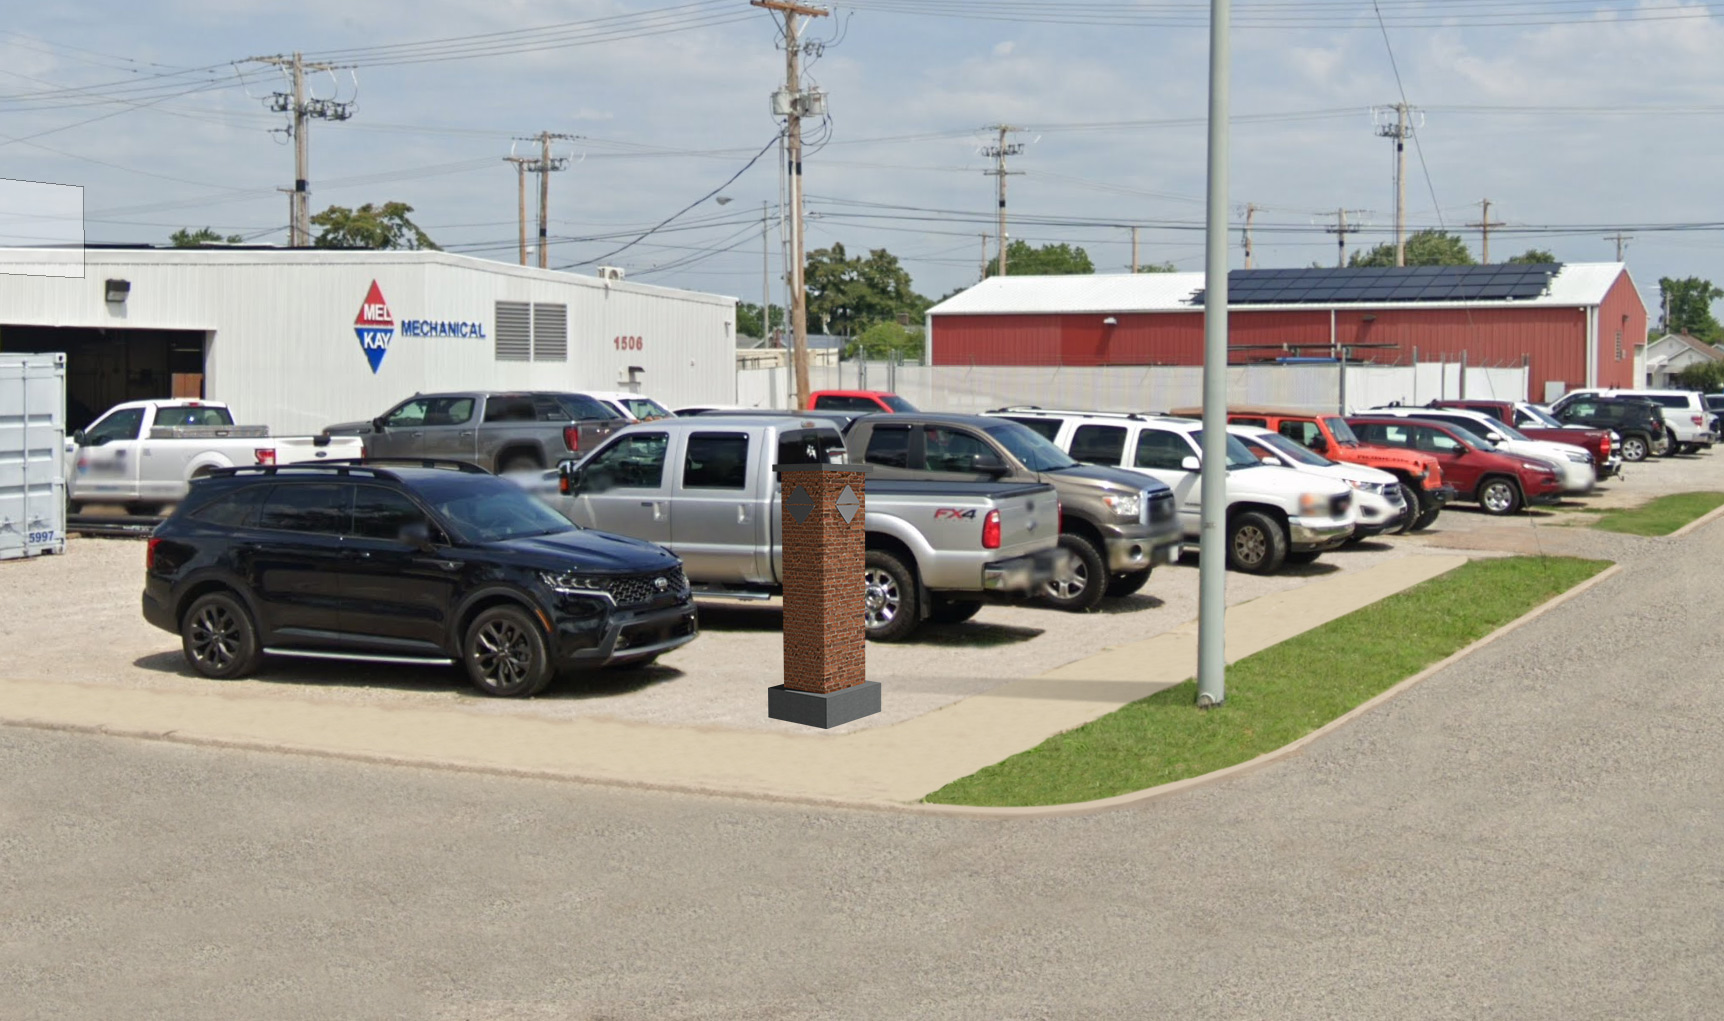
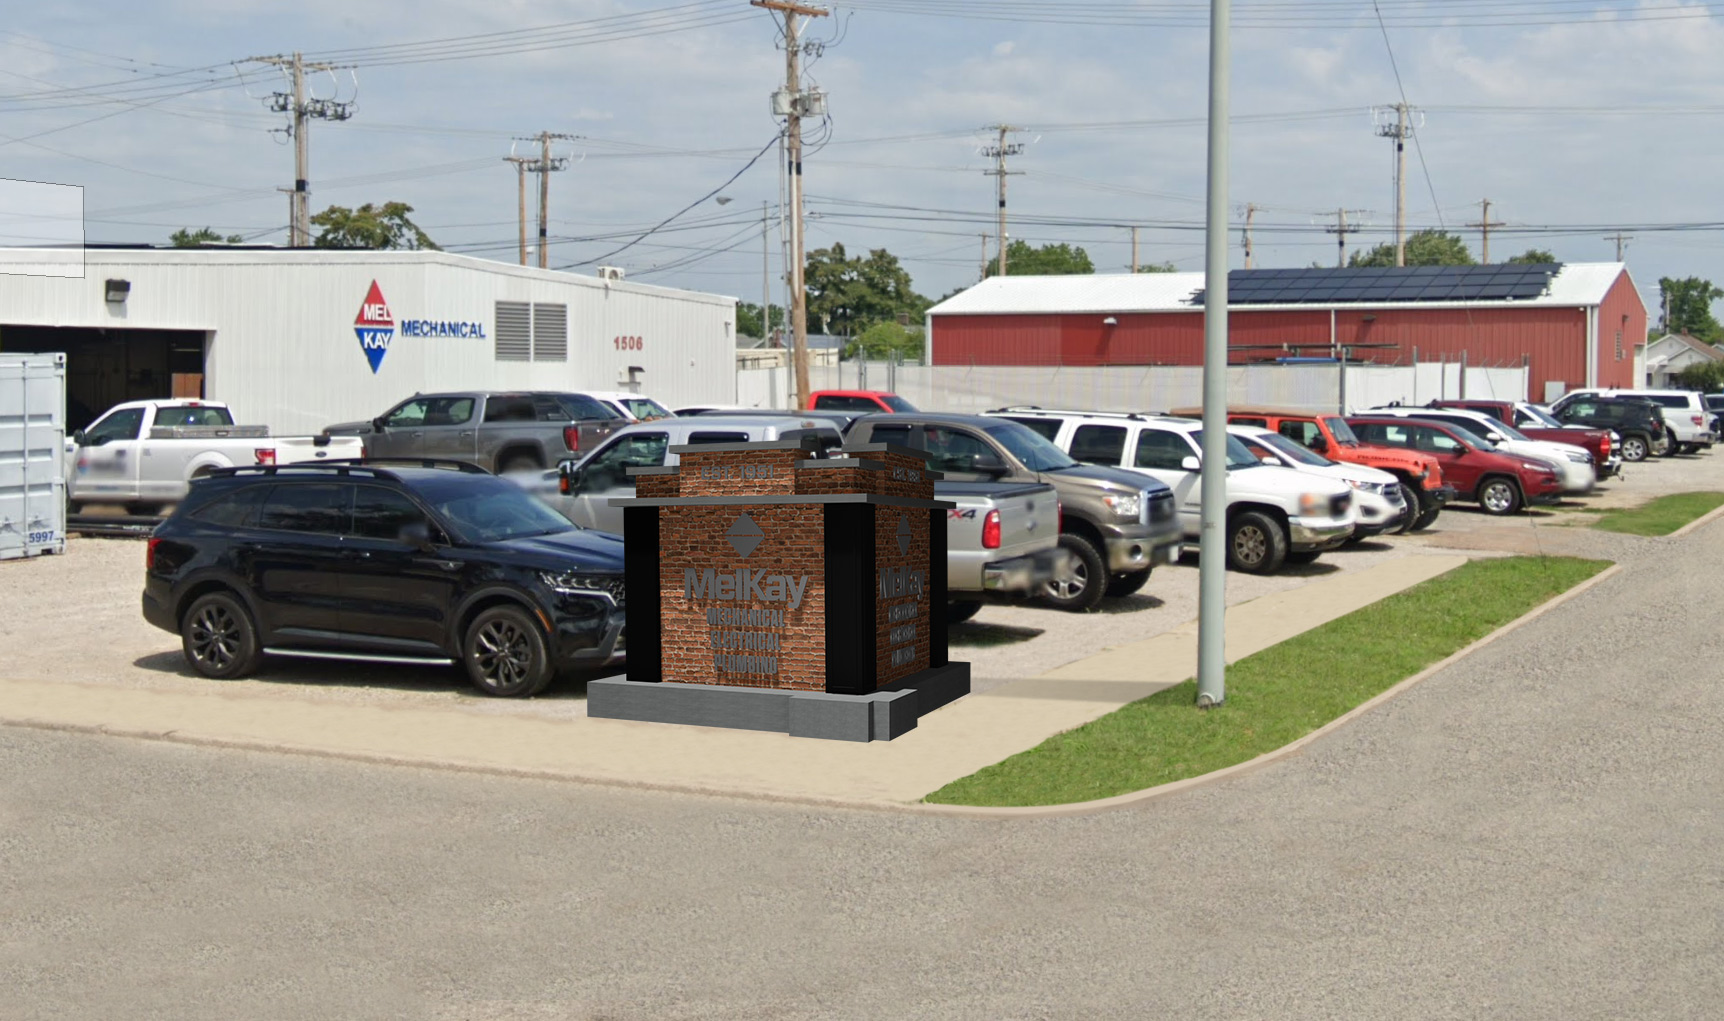
new corner signage

Changed region(s): [[0.3382, 0.4251, 0.5841, 0.7287]]

diff --git a/app/page.tsx b/app/page.tsx
@@ -155,7 +155,7 @@ export default function Home() {
       <Detail image="/melkay-west-lot-southeast.jpg" 
         alt="Melkay Signage West Lot Southeast" 
         title="West Lot Southest Corner" 
-        description="Custom brick and concrete pillar with brushed metal icon. Possibly backlit." />
+        description="Corner Brick and concrete monument designed to reflect architecture of main building. Includes extruded, brushed metal lettering to match main building." />
     }
 
     {selectedMarker === 4 &&
@@ -172,7 +172,21 @@ export default function Home() {
       </div>
     }
 
-    {(selectedMarker === 5 || selectedMarker === 6 || selectedMarker === 7 || selectedMarker === 8) &&
+    {selectedMarker === 8 &&
+      <div className="sketchfab-embed-wrapper w-full max-w-5xl aspect-video mb-12">
+        <Iframe url="https://sketchfab.com/models/469a1e3e4e4647e49474d42d9d653b20/embed?autostart=1&ui_theme=dark"
+          className="w-full max-w-5xl aspect-video"
+          width="640px"
+          height="520px"
+          id=""
+          display="block"
+          allowFullScreen
+          position="relative"
+          allow="autoplay; fullscreen; xr-spatial-tracking" />
+      </div>
+    }
+
+    {(selectedMarker === 5 || selectedMarker === 6 || selectedMarker === 7) &&
       <div className="sketchfab-embed-wrapper w-full max-w-5xl aspect-video mb-12">
         <Iframe url="https://sketchfab.com/models/15e2c75cbc3245c59e55c2f4cc671ce9/embed?autostart=1&ui_theme=dark"
         className="w-full max-w-5xl aspect-video"
